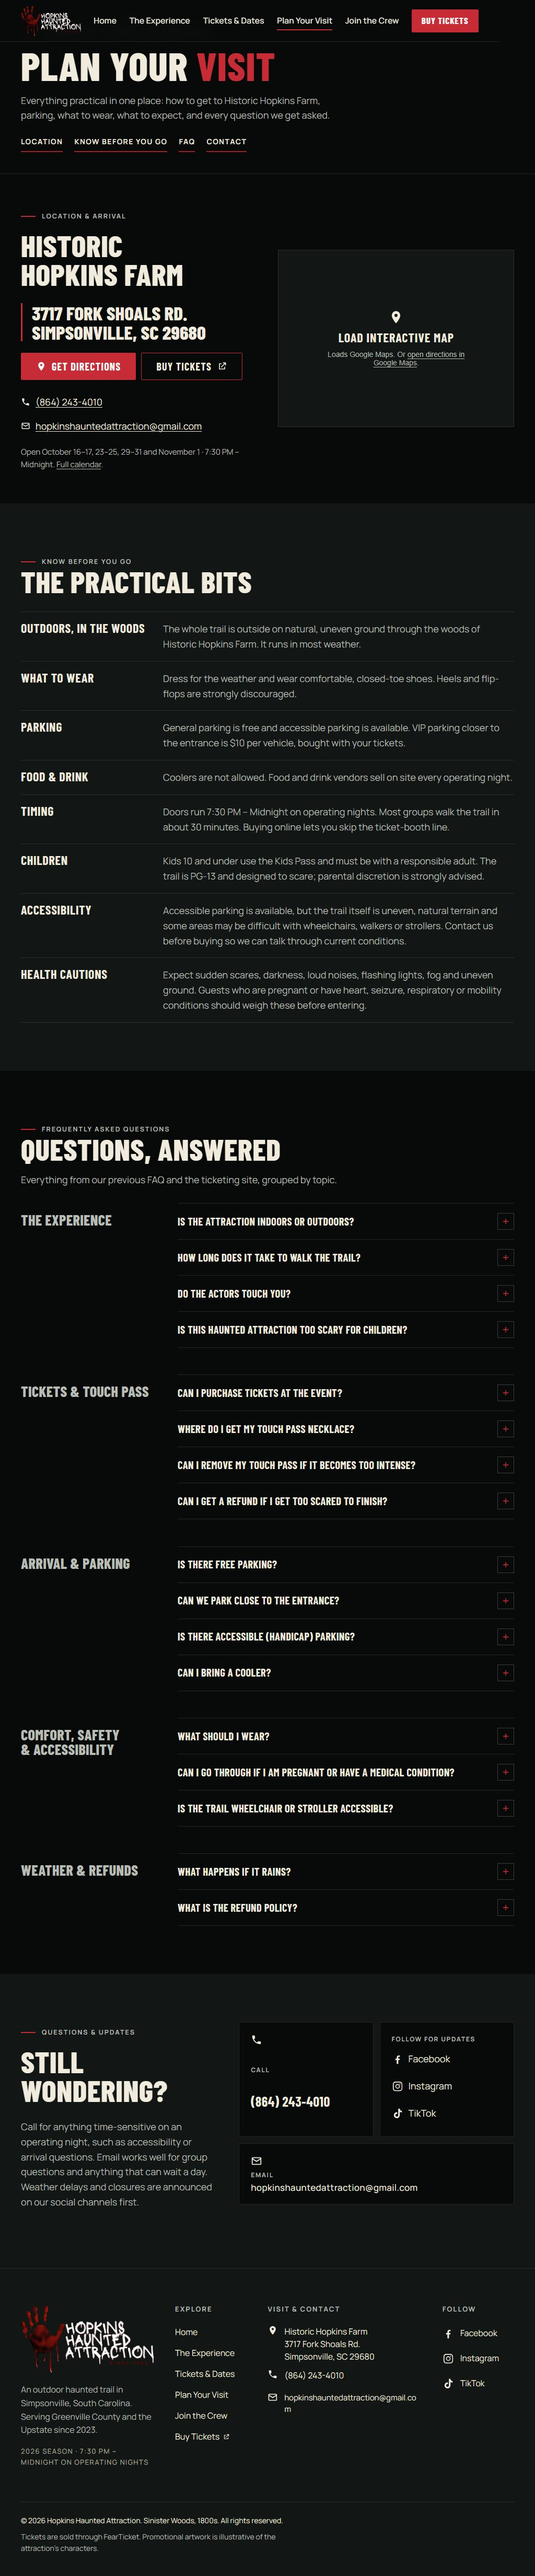
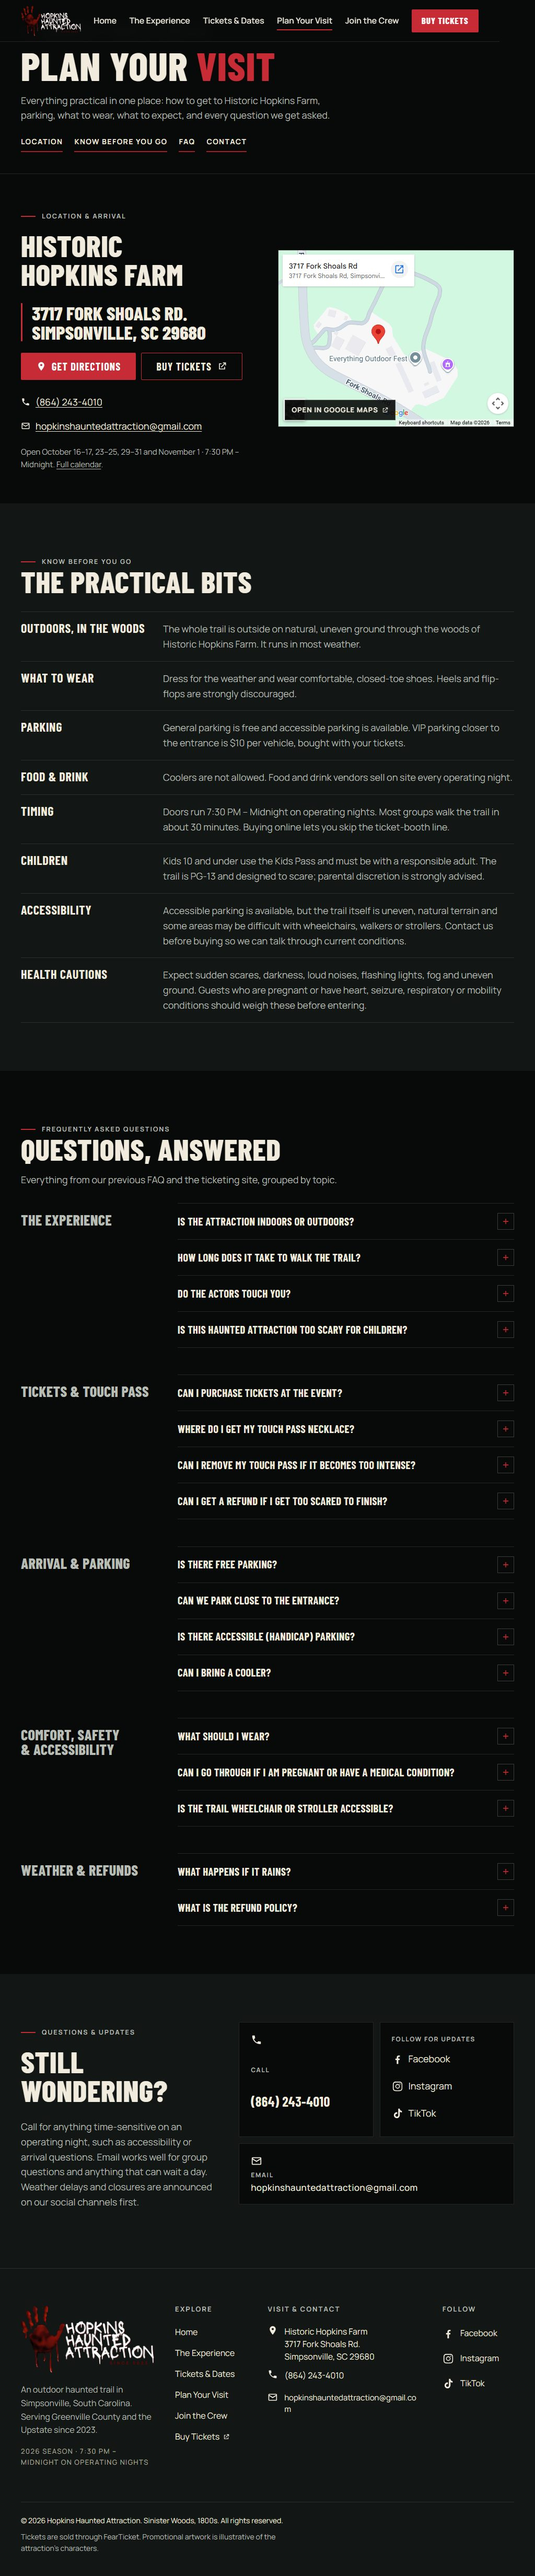
Embed the Google Map directly on Plan Your Visit

Changed region(s): [[0.5, 0.0937, 0.9688, 0.1875]]

diff --git a/src/scripts/main.js b/src/scripts/main.js
@@ -328,27 +328,6 @@ const reduceMotion = window.matchMedia('(prefers-reduced-motion: reduce)');
 })();
 
 /* ------------------------------------------------------------------ */
-/* Lazy map embed                                                      */
-/* ------------------------------------------------------------------ */
-(() => {
-  const btn = $('[data-map-load]');
-  if (!btn) return;
-  btn.addEventListener('click', () => {
-    const wrap = btn.closest('.map');
-    if (!wrap) return;
-    const iframe = document.createElement('iframe');
-    iframe.src = btn.dataset.mapLoad;
-    iframe.title = 'Map showing the location of Hopkins Haunted Attraction';
-    iframe.loading = 'lazy';
-    iframe.referrerPolicy = 'no-referrer-when-downgrade';
-    iframe.setAttribute('allowfullscreen', '');
-    wrap.classList.add('is-loaded');
-    wrap.appendChild(iframe);
-    btn.remove();
-  });
-})();
-
-/* ------------------------------------------------------------------ */
 /* Scroll reveals                                                      */
 /* ------------------------------------------------------------------ */
 (() => {
